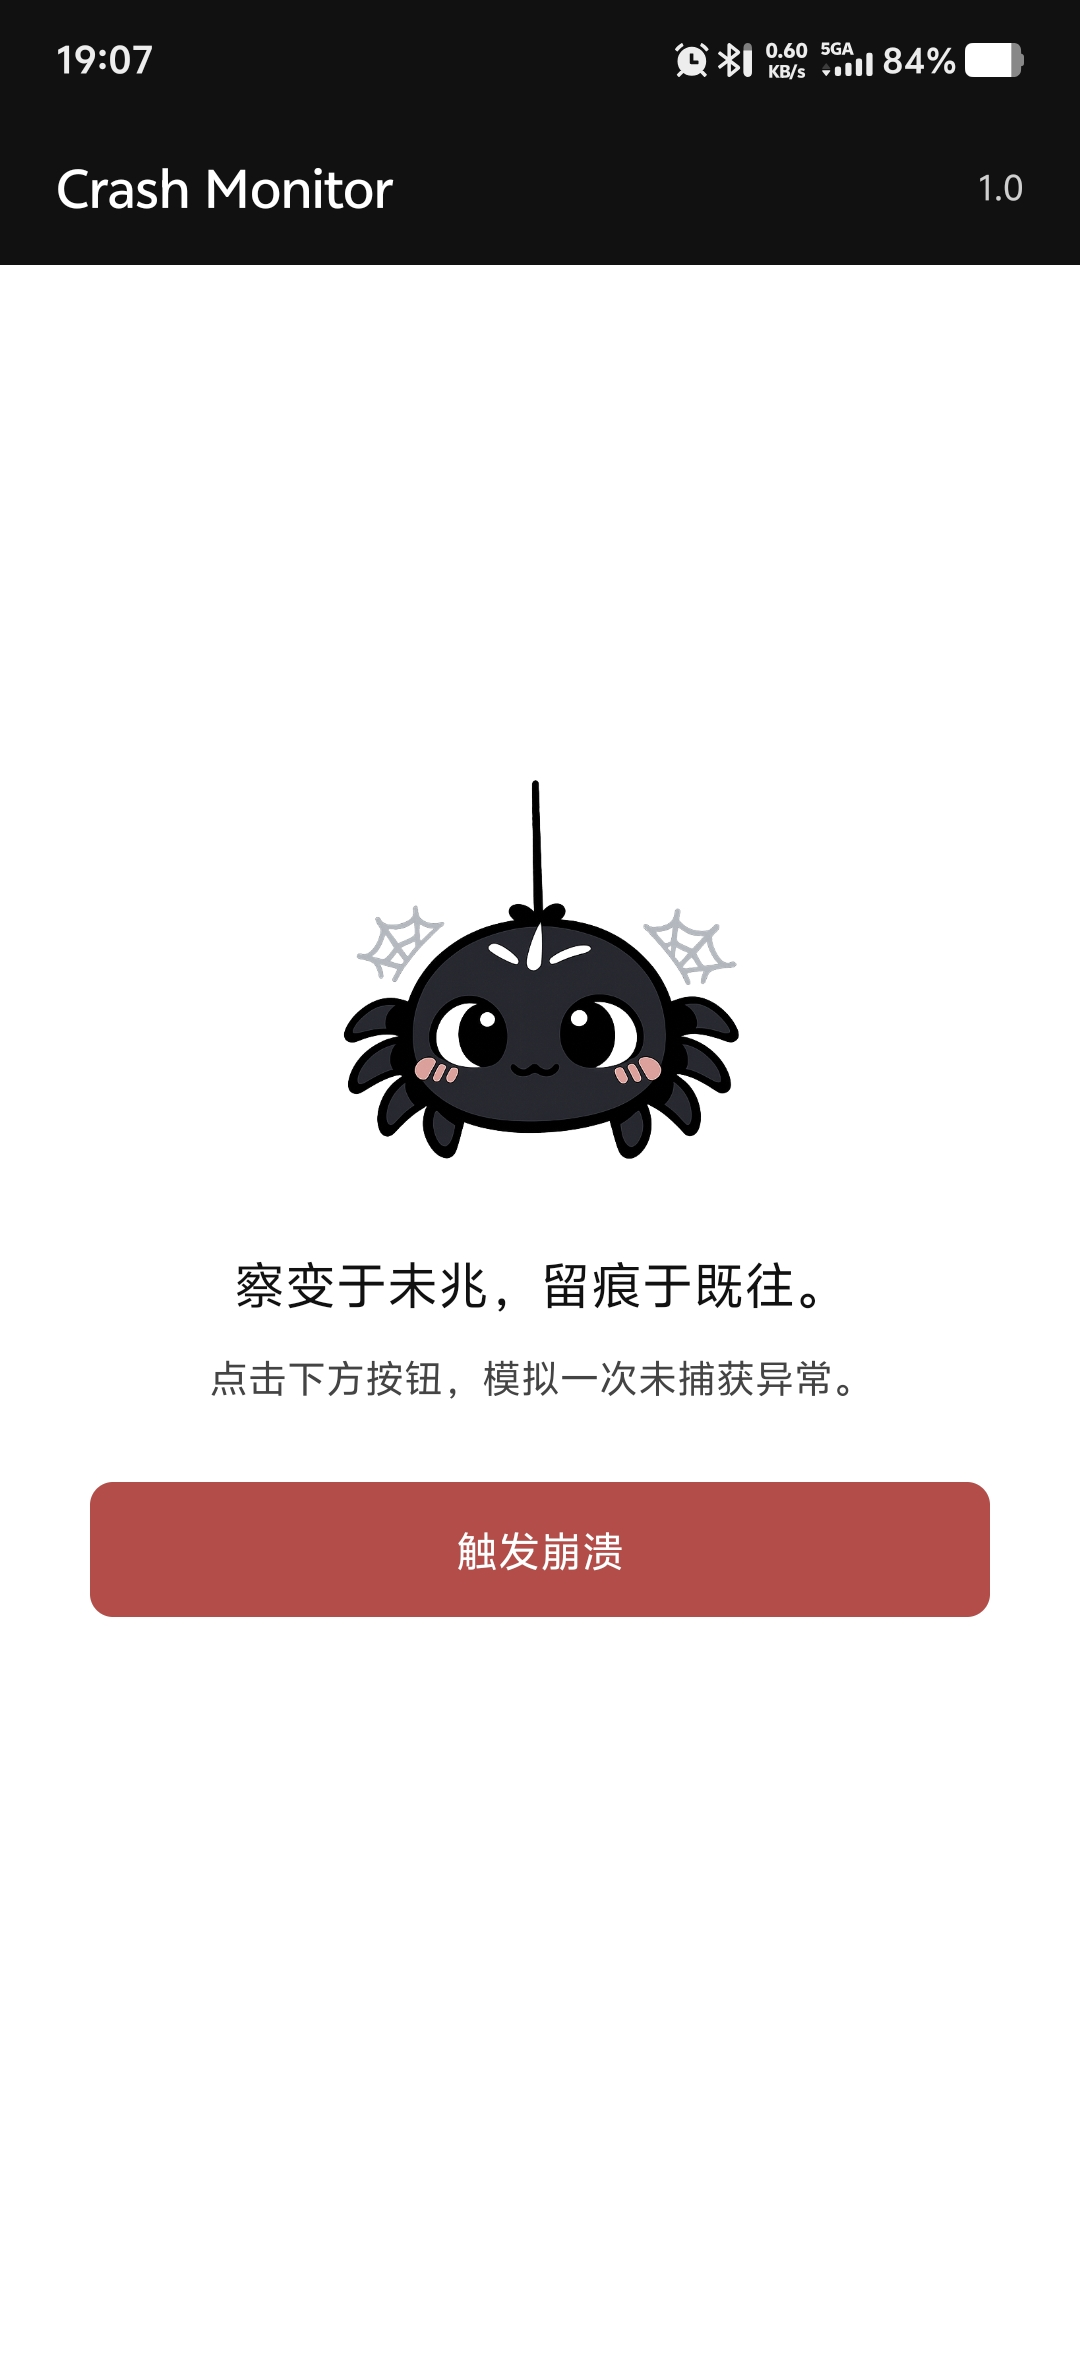
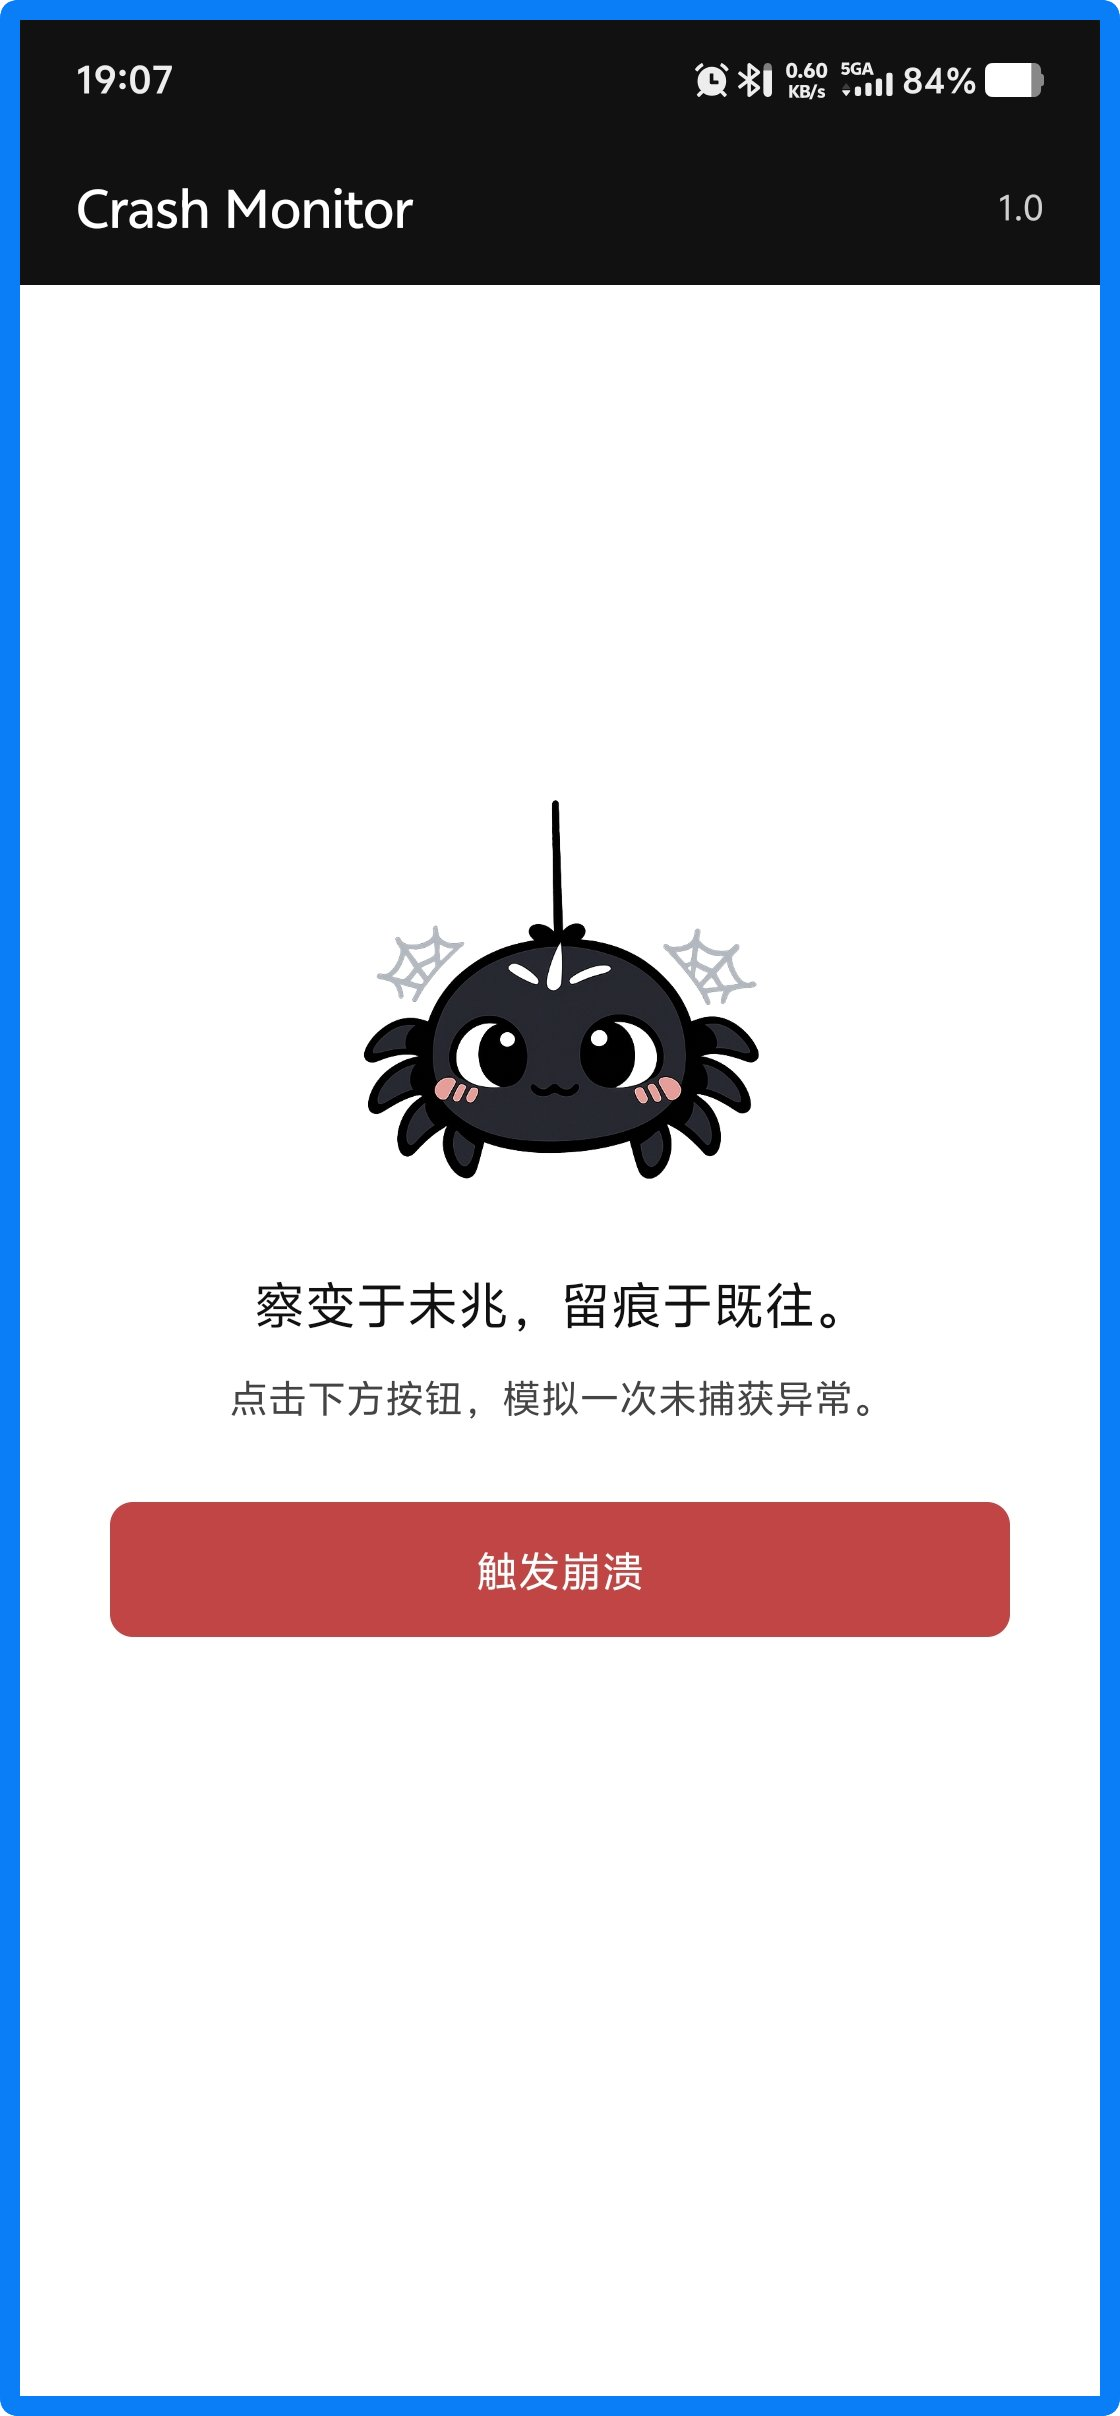
🎨 style: 给运行效果图片加添边框

diff --git a/app/src/main/java/com/xinyi/app/crash/AppApplication.kt b/app/src/main/java/com/xinyi/app/crash/AppApplication.kt
@@ -19,9 +19,9 @@ class AppApplication : Application() {
 
         // 初始化崩溃监听器框架
         val crashConfig = CrashMonitor.builder()
-            .setCrashAction(CrashAction.RESTART)
+            .setCrashAction(CrashAction.EXIT)
             .setShowCrashUi(true)
-            .setCrashUiMode(CrashUiMode.INTERACTIVE)
+            .setCrashUiMode(CrashUiMode.TRANSITION)
             .build()
         CrashMonitor.init(this, crashConfig) { report ->
             // 此时文件已同步写完；不要在这里杀进程或重启

diff --git a/README.md b/README.md
@@ -55,30 +55,30 @@ An Android runtime diagnostics framework for detecting exceptions, collecting ex
 Demo 主页：
 
 <div align="center">
-  <img src="readme/img/demo_app_main.jpg" width="240" alt="Demo 主页" style="border: 1px solid #DDDDDD; border-radius: 4px;">
+  <img src="readme/img/demo_app_main.jpg" width="240" alt="Demo 主页">
 </div>
 
 内置崩溃页（交互模式）：
 
 <div align="center">
-  <img src="readme/img/interactive_portrait_page.jpg" width="240" alt="交互崩溃页竖屏" style="border: 1px solid #DDDDDD; border-radius: 4px;">
+  <img src="readme/img/interactive_portrait_page.jpg" width="240" alt="交互崩溃页竖屏">
   &nbsp;&nbsp;
-  <img src="readme/img/interactive_landscape_page.jpg" width="360" alt="交互崩溃页横屏" style="border: 1px solid #DDDDDD; border-radius: 4px;">
+  <img src="readme/img/interactive_landscape_page.jpg" width="420" alt="交互崩溃页横屏">
   <p>竖屏 / 横屏</p>
 </div>
 
 过渡页（展示提示后按配置自动退出或重启）：
 
 <div align="center">
-  <img src="readme/img/transition_page.jpg" width="240" alt="过渡页" style="border: 1px solid #DDDDDD; border-radius: 4px;">
+  <img src="readme/img/transition_page.jpg" width="240" alt="过渡页">
 </div>
 
 本地日志：
 
 <div align="center">
-  <img src="readme/img/crash_log_directory.png" width="280" alt="崩溃日志目录" style="border: 1px solid #DDDDDD; border-radius: 4px;">
+  <img src="readme/img/crash_log_directory.png" width="280" alt="崩溃日志目录">
   &nbsp;&nbsp;
-  <img src="readme/img/crash_log_file_info.png" width="280" alt="崩溃日志内容" style="border: 1px solid #DDDDDD; border-radius: 4px;">
+  <img src="readme/img/crash_log_file_info.png" width="280" alt="崩溃日志内容">
   <p>日志目录 / 日志内容</p>
 </div>
 
